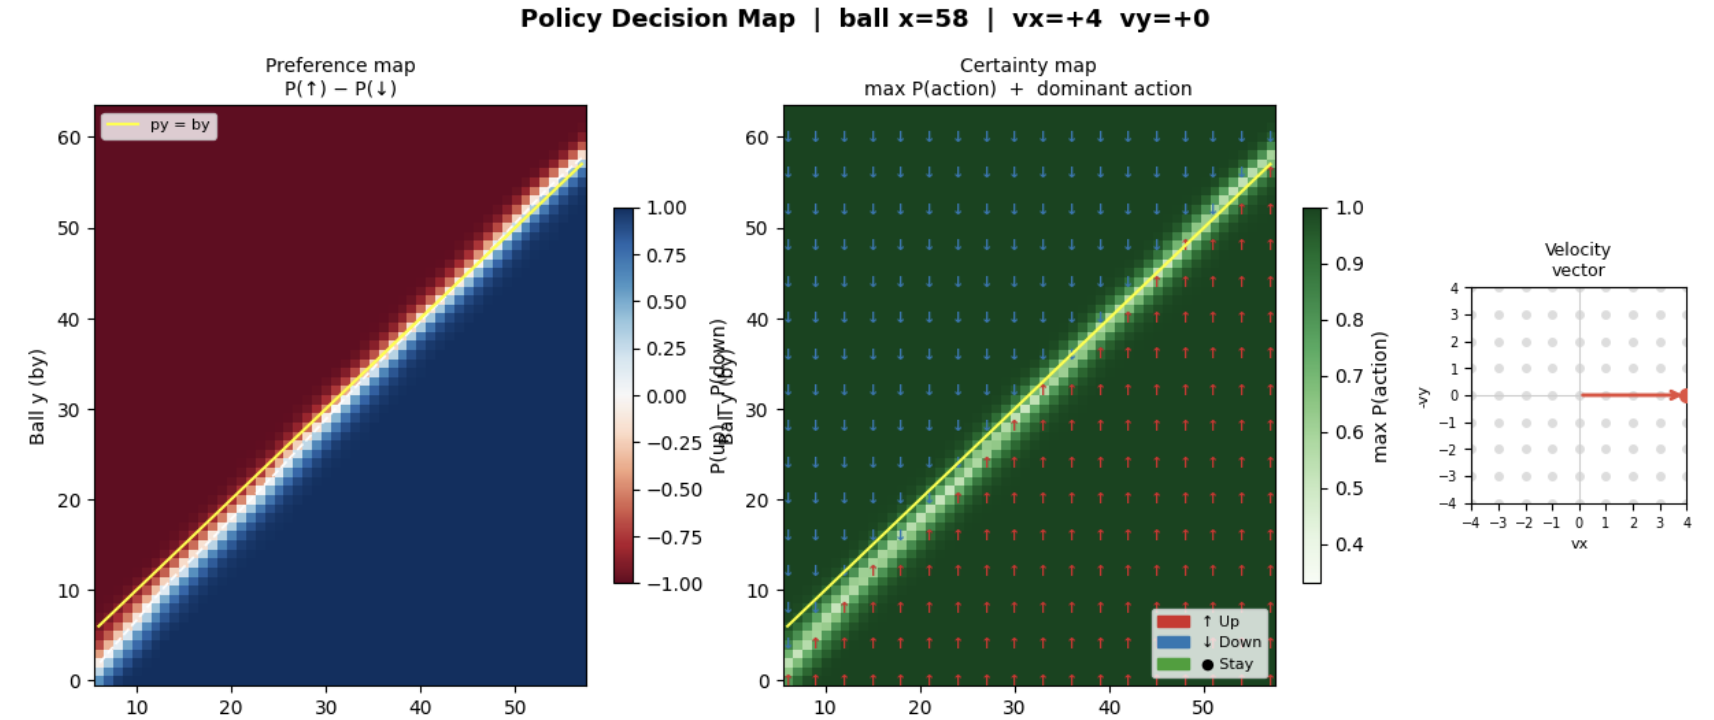
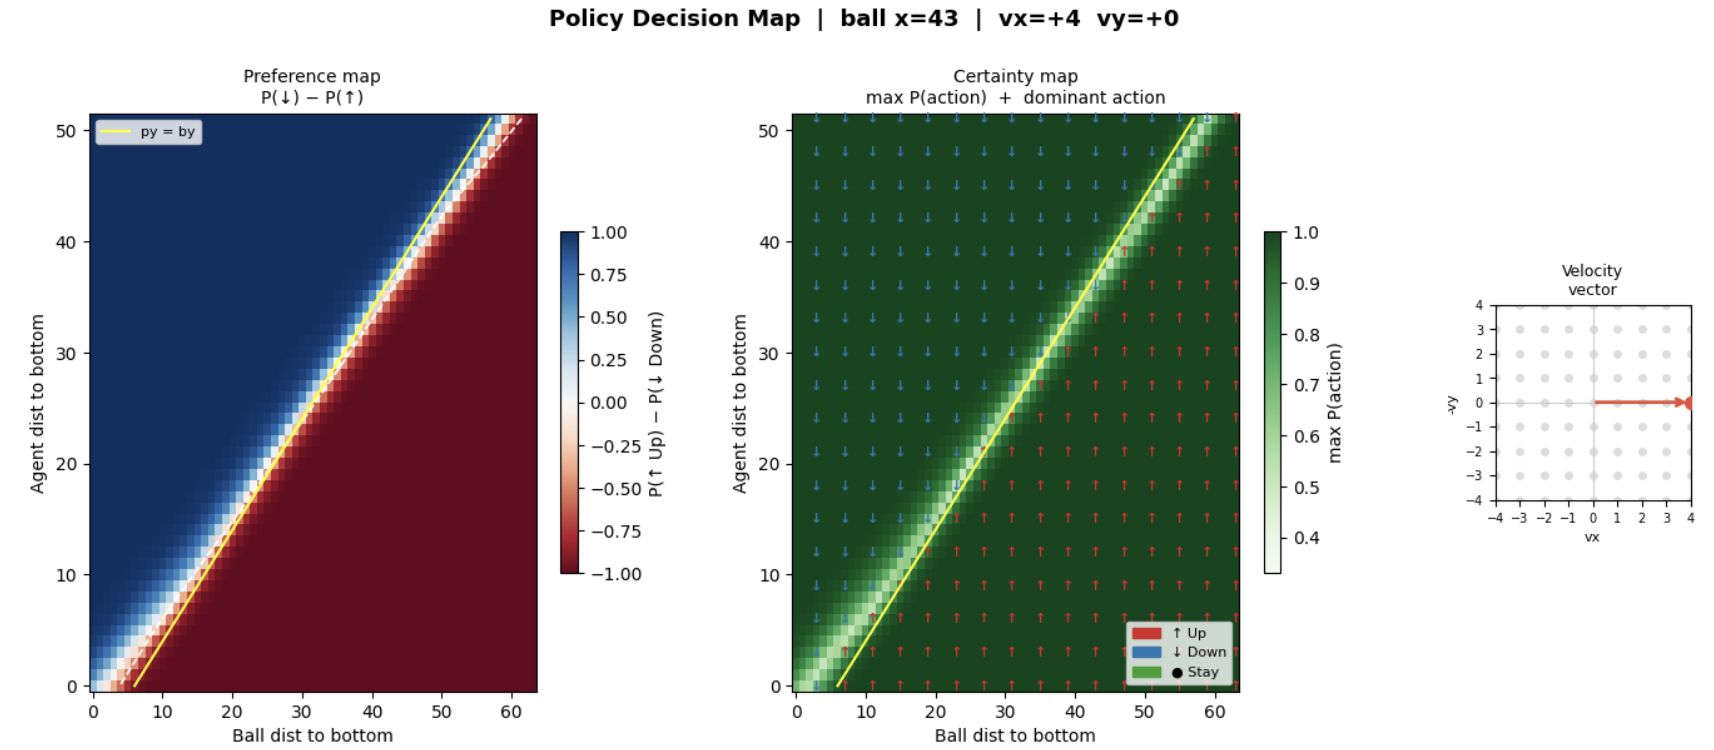
change readme

diff --git a/README.md b/README.md
@@ -255,14 +255,14 @@ The critic loss (TD error) spikes early as the Q-function bootstraps from random
 ### 3.3 Actor-Critic Policy Visualization
 
 <p align="center">
-  <img src="./readme_nec/heatmap1.jpg" alt="Actor-Critic policy decision map" width="700"/>
+  <img src="./readme_nec/heatmap1.png" alt="Actor-Critic policy decision map" width="700"/>
 </p>
 <p align="center">
-  <em>Policy decision map for the trained Actor-Critic agent. Each cell shows the preferred action (up/down/stay) as a function of agent paddle position (y-axis) and ball position (x-axis), for a fixed ball velocity. The map reveals the learned interception strategy: the agent moves toward the ball when it is approaching and stays otherwise.</em>
+  <em>Policy decision map for the trained Actor-Critic agent. Each cell shows the preferred action (up/down/stay) as a function of agent paddle position (x-axis: `py`) and ball position (y-axis: `by`) for a fixed ball velocity. The map shows a clear interception rule: move toward the ball when misaligned and stay near the diagonal where `py \approx by`.</em>
 </p>
 
 **Plot description:**
-The heatmap visualizes the greedy policy $\arg\max_a \pi(a \mid s)$ across a grid of (ball $y$, paddle $y$) positions for a fixed ball velocity directed toward the agent. Above the diagonal (paddle below the ball) the agent predominantly selects "Up"; below the diagonal (paddle above the ball) it selects "Down"; near the diagonal (paddle aligned with the ball) it selects "Stay". This confirms that the learned policy implements a sensible interception strategy — track the ball vertically and hold position once aligned.
+The heatmap visualizes the greedy policy $\arg\max_a \pi(a \mid s)$ across a grid of (ball $y$, paddle $y$) positions for a fixed velocity. The decision boundary is concentrated around the diagonal: in one half-plane the policy chooses one movement direction, in the opposite half-plane it chooses the reverse direction, and near the diagonal it mostly selects "Stay". This matches an interception controller that reduces vertical misalignment and stabilizes once aligned.
 
 ---
 
